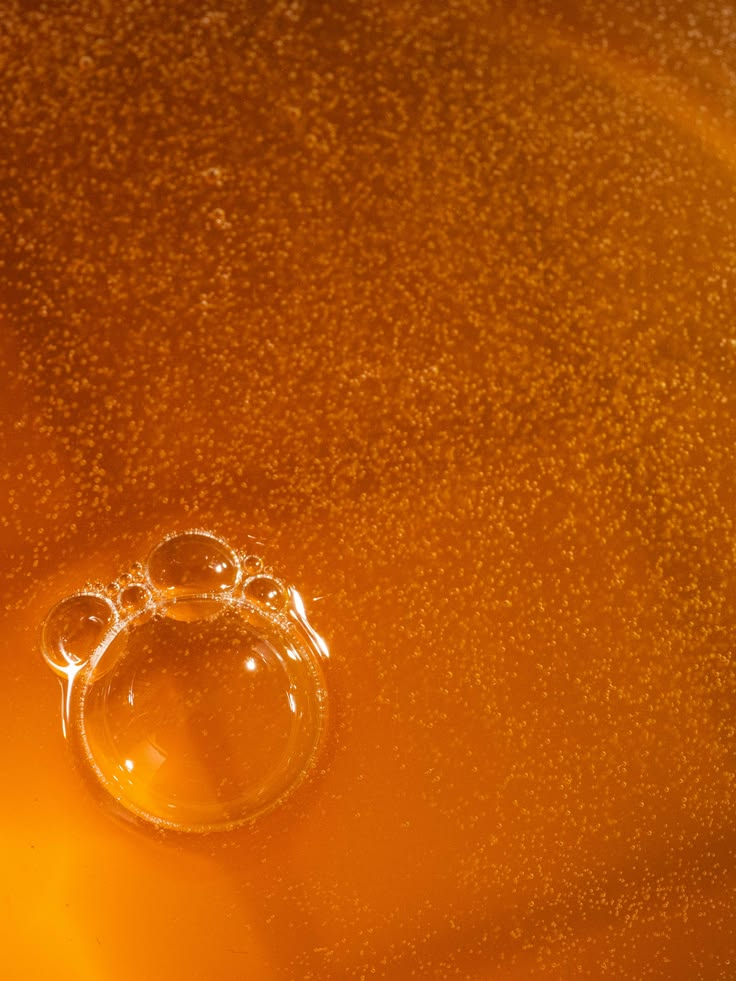
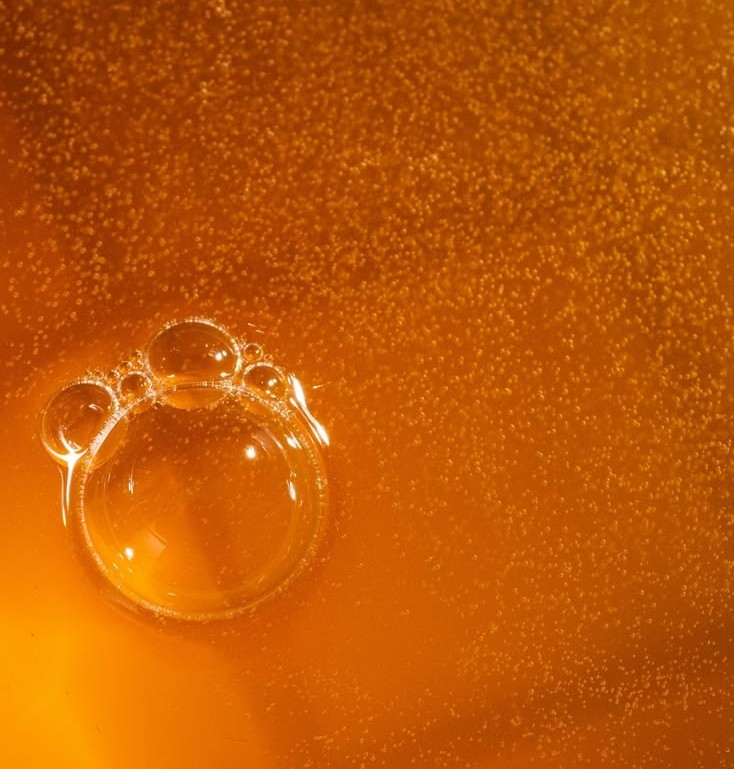
fix: show blog post images at full aspect ratio, no crop
The images were being forced into a 16:10 landscape box with
object-cover, cutting off the top and bottom of the portrait photos.
Now they render at their natural aspect ratio.

diff --git a/lib/blog-posts.ts b/lib/blog-posts.ts
@@ -1,7 +1,7 @@
 export type BlogContentBlock =
   | { type: "paragraph"; text: string; linkText?: string; linkHref?: string }
   | { type: "heading"; text: string }
-  | { type: "image"; alt: string; src?: string };
+  | { type: "image"; alt: string; src?: string; width?: number; height?: number };
 
 export interface BlogPost {
   slug: string;
@@ -36,7 +36,13 @@ export const blogPosts: BlogPost[] = [
         type: "paragraph",
         text: "Hoy forma parte de la oferta habitual de cafeterías, restaurantes, tiendas de alimentos saludables y supermercados en países como Estados Unidos, Australia, Reino Unido, Alemania y Japón, mientras su consumo continúa expandiéndose en mercados emergentes, entre ellos Argentina.",
       },
-      { type: "image", alt: "Burbujas propias de la kombucha", src: "/blog1A.jpeg" },
+      {
+        type: "image",
+        alt: "Burbujas propias de la kombucha",
+        src: "/blog1A.jpeg",
+        width: 734,
+        height: 769,
+      },
       {
         type: "paragraph",
         text: "Este crecimiento refleja una tendencia más amplia: el interés de los consumidores por bebidas elaboradas mediante procesos naturales de fermentación y por propuestas que ofrecen nuevas experiencias de sabor.",
@@ -169,6 +175,8 @@ export const blogPosts: BlogPost[] = [
         type: "image",
         alt: "Kombucha servida en una copa de vino sobre un banco",
         src: "/blog1B.jpeg",
+        width: 733,
+        height: 768,
       },
       { type: "heading", text: "Blüte" },
       {

diff --git a/components/blog-post-content.tsx b/components/blog-post-content.tsx
@@ -72,14 +72,13 @@ export default function BlogPostContent({ post }: { post: BlogPost }) {
                     className="my-4"
                   >
                     {block.src ? (
-                      <div className="relative w-full aspect-[16/10] overflow-hidden rounded-md">
-                        <Image
-                          src={block.src}
-                          alt={block.alt}
-                          fill
-                          className="object-cover"
-                        />
-                      </div>
+                      <Image
+                        src={block.src}
+                        alt={block.alt}
+                        width={block.width ?? 1200}
+                        height={block.height ?? 800}
+                        className="w-full h-auto rounded-md"
+                      />
                     ) : (
                       <div className="w-full aspect-[16/10] rounded-md border border-dashed border-border flex flex-col items-center justify-center gap-3 text-muted-foreground bg-muted/30">
                         <ImageOff className="w-6 h-6" />
